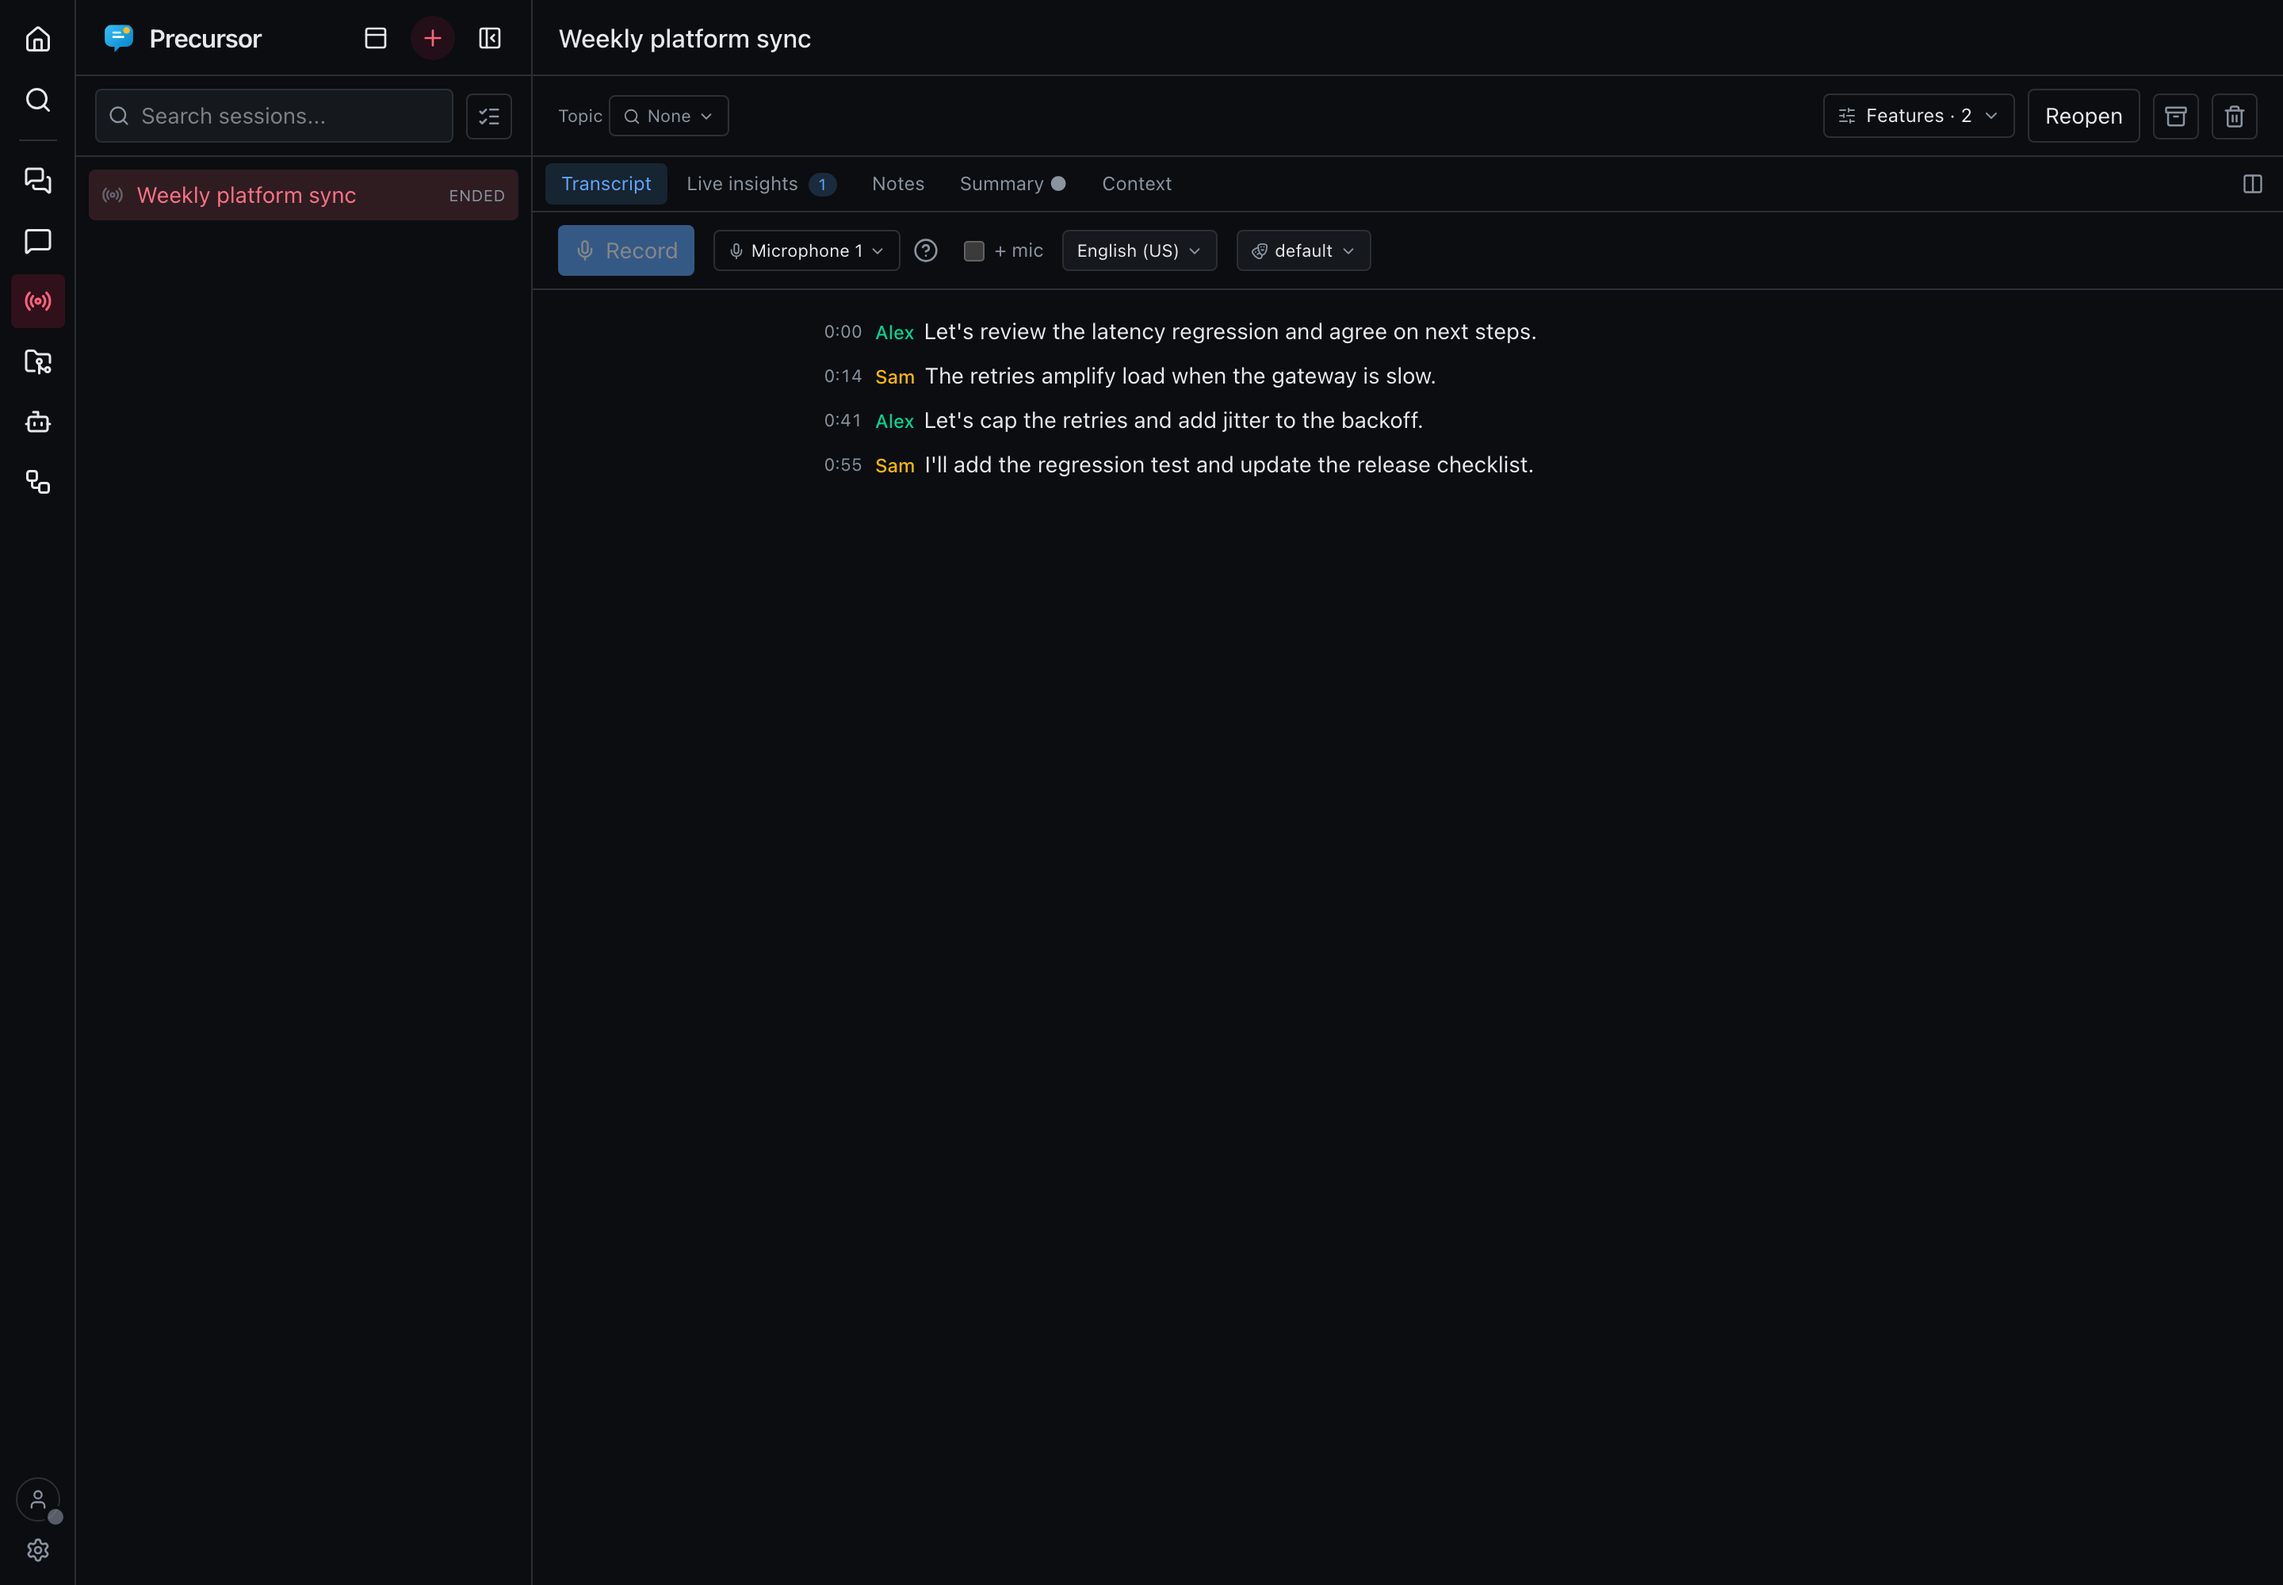
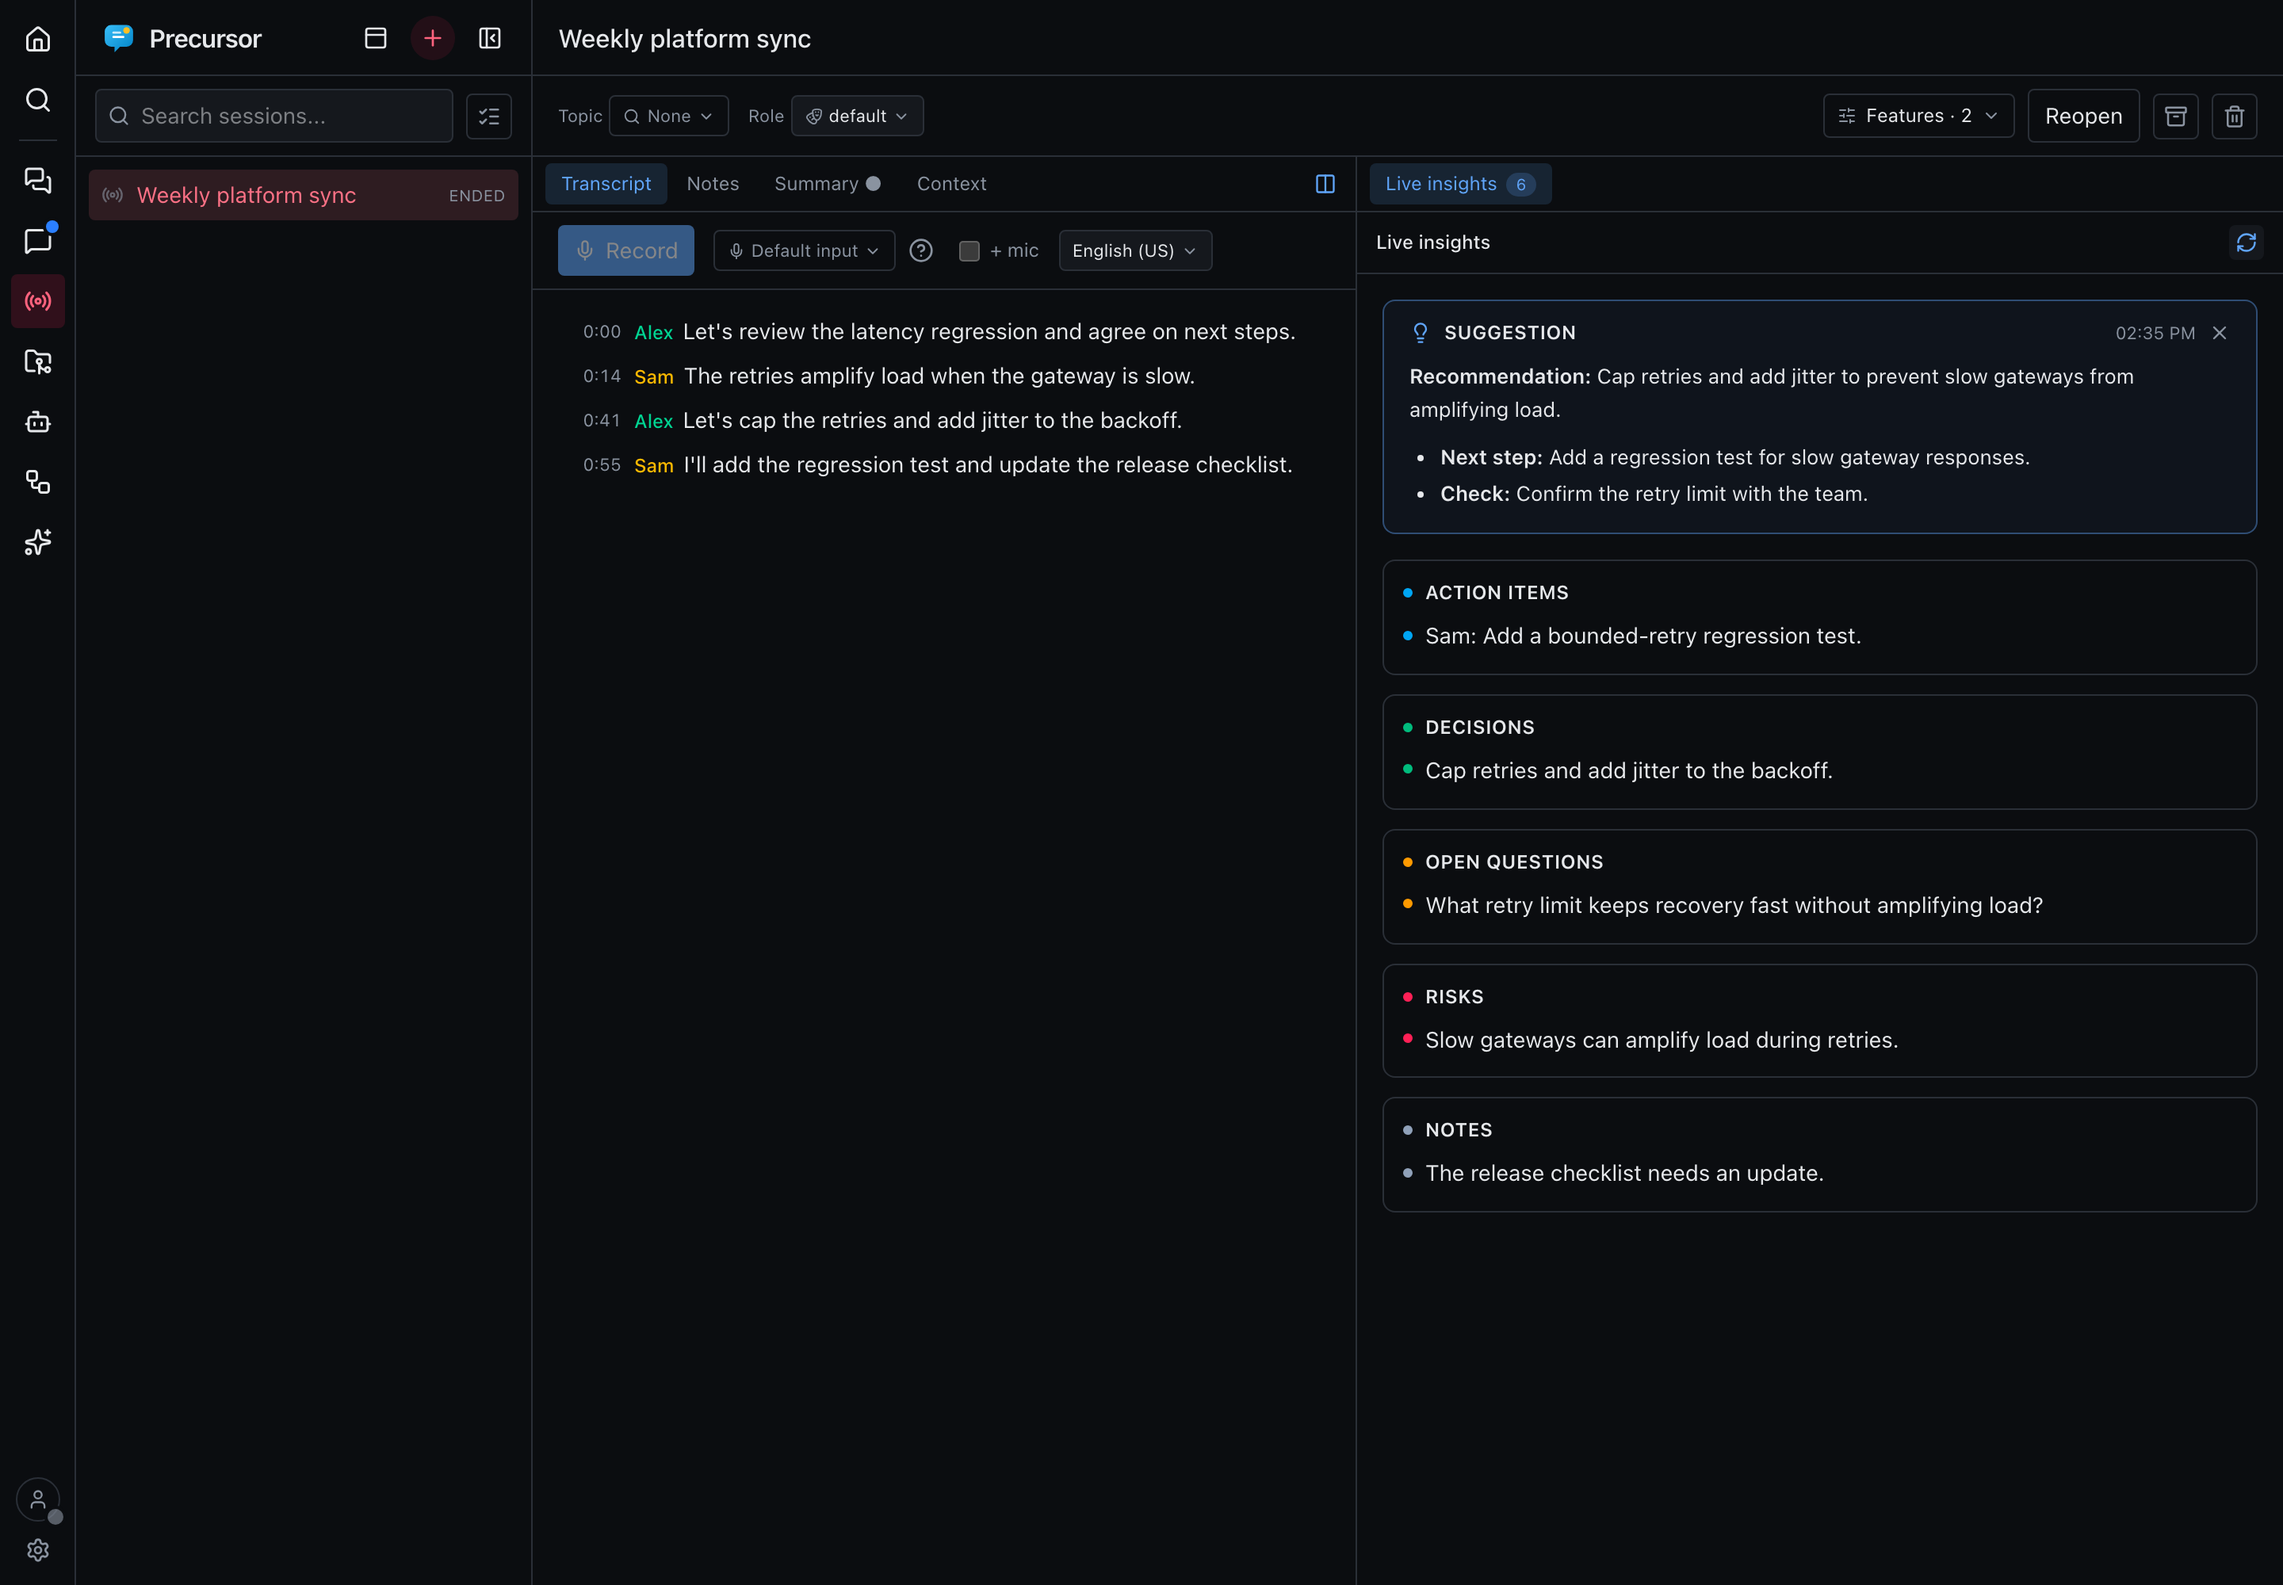
Improve live insights readability
Copilot-Session: b76e12f0-c15c-464a-84b6-b99a6c88594e

diff --git a/frontend/src/components/LiveView.tsx b/frontend/src/components/LiveView.tsx
@@ -1350,17 +1350,17 @@ export function LiveView({
           <RefreshCw size={14} className={analyzing ? "animate-spin" : ""} />
         </button>
       </div>
-      <div className="flex-1 overflow-y-auto px-3 py-3">
+      <div className="flex-1 overflow-y-auto px-4 py-4">
         {/* Proactive help rides along on the analysis pass: shown as cards when
             the assistant judges it can materially help right now. */}
         {suggestion && (
-          <div className="mb-3 rounded border border-accent/40 bg-accent/5 px-3 py-2">
-            <div className="mb-1 flex items-center gap-1.5">
-              <Lightbulb size={12} className="text-accent" />
-              <span className="text-[11px] font-medium uppercase tracking-wide text-muted">
+          <div className="mb-4 rounded-lg border border-accent/40 bg-accent/5 px-4 py-3">
+            <div className="mb-2 flex items-center gap-2">
+              <Lightbulb size={14} className="text-accent" />
+              <span className="text-xs font-semibold uppercase tracking-wide text-text">
                 Suggestion
               </span>
-              <span className="ml-auto text-[10px] text-muted">
+              <span className="ml-auto text-[11px] text-muted">
                 {new Date(suggestion.at).toLocaleTimeString(undefined, {
                   hour: "2-digit",
                   minute: "2-digit",
@@ -1372,10 +1372,10 @@ export function LiveView({
                 aria-label="Dismiss"
                 className="text-muted hover:text-red-500"
               >
-                <X size={12} />
+                <X size={14} />
               </button>
             </div>
-            <div className="prose prose-sm dark:prose-invert max-w-none text-[13px]">
+            <div className="prose prose-sm dark:prose-invert max-w-none text-[13px] leading-relaxed">
               <Markdown>{suggestion.text}</Markdown>
             </div>
           </div>
@@ -1389,21 +1389,27 @@ export function LiveView({
         ) : (
           <div className="space-y-3">
             {groupedInsights.map((g) => (
-              <div key={g.kind}>
-                <div className="mb-1 flex items-center gap-1.5">
+              <section key={g.kind} className="rounded-lg border border-border bg-bg/60 px-3 py-3">
+                <div className="mb-2 flex items-center gap-2">
                   <span className={`h-1.5 w-1.5 rounded-full ${g.dot}`} />
-                  <span className="text-[11px] font-medium uppercase tracking-wide text-muted">
+                  <h3 className="text-xs font-semibold uppercase tracking-wide text-text">
                     {g.label}
-                  </span>
+                  </h3>
                 </div>
-                <ul className="space-y-1">
+                <ul className="space-y-2">
                   {g.items.map((it) => (
-                    <li key={it.id} className="text-[13px] leading-snug text-text">
-                      <HighlightedText text={it.content} />
+                    <li key={it.id} className="flex items-start gap-2 text-sm leading-relaxed text-text">
+                      <span
+                        className={`mt-[0.45rem] h-1.5 w-1.5 shrink-0 rounded-full ${g.dot}`}
+                        aria-hidden="true"
+                      />
+                      <span className="min-w-0">
+                        <HighlightedText text={it.content} />
+                      </span>
                     </li>
                   ))}
                 </ul>
-              </div>
+              </section>
             ))}
           </div>
         )}

diff --git a/scripts/capture_screenshots.js b/scripts/capture_screenshots.js
@@ -404,8 +404,30 @@ const scenes = {
   live: {
     viewport: { width: 1440, height: 1000 },
     async go(page) {
+      await page.addInitScript(() => {
+        localStorage.setItem("precursor:live-panel", JSON.stringify({
+          panes: [
+            { tabs: ["transcript"], active: "transcript" },
+            { tabs: ["insights"], active: "insights" },
+          ],
+        }));
+      });
+      await page.route("**/api/live/*/analyze", (route) => route.fulfill({
+        json: {
+          insights: [
+            { id: 1, kind: "action_item", content: "Sam: Add a bounded-retry regression test." },
+            { id: 2, kind: "decision", content: "Cap retries and add jitter to the backoff." },
+            { id: 3, kind: "question", content: "What retry limit keeps recovery fast without amplifying load?" },
+            { id: 4, kind: "risk", content: "Slow gateways can amplify load during retries." },
+            { id: 5, kind: "note", content: "The release checklist needs an update." },
+          ],
+          suggestion: "**Recommendation:** Cap retries and add jitter to prevent slow gateways from amplifying load.\n\n- **Next step:** Add a regression test for slow gateway responses.\n- **Check:** Confirm the retry limit with the team.",
+        },
+      }));
       await page.goto(`${BASE}/live/weekly-platform-sync`, { waitUntil: "networkidle" });
       await page.getByText("Let's review the latency regression and agree on next steps.", { exact: true }).waitFor();
+      await page.getByRole("button", { name: "Analyze now" }).click();
+      await page.getByText("Recommendation", { exact: false }).waitFor();
       return undefined;
     },
   },

diff --git a/precursor/backend/services/meeting_analysis.py b/precursor/backend/services/meeting_analysis.py
@@ -116,8 +116,13 @@ _SYSTEM_PROMPT = (
     "If nothing substantive has been said yet, return an empty insights list.\n\n"
     "For help/suggestion: ONLY set help=true when there is a clear, current open "
     "question or problem you can materially help with — give a specific, brief "
-    "answer or next step in 'suggestion'. Most of the time nothing is needed: set "
-    "help=false with an empty suggestion. Do not repeat the insights as a suggestion."
+    "answer or next step in 'suggestion'. Make it easy to scan during a live "
+    "discussion: start with one direct recommendation or answer in a short sentence. "
+    "When useful, follow with up to 3 short Markdown bullets for options or next "
+    "steps, using bold labels sparingly. Keep it to about 3 short lines; avoid "
+    "numbered run-on paragraphs, long caveats, and repeating the insights. Most of "
+    "the time nothing is needed: set help=false with an empty suggestion. Do not "
+    "repeat the insights as a suggestion."
 )
 
 

diff --git a/tests/test_live_sessions.py b/tests/test_live_sessions.py
@@ -1431,6 +1431,14 @@ def test_parse_insights_help_and_suggestion() -> None:
     assert _parse_insights("nothing here") == ([], False, "")
 
 
+def test_live_analysis_prompt_requests_scannable_suggestions() -> None:
+    from precursor.backend.services.meeting_analysis import _SYSTEM_PROMPT
+
+    assert "start with one direct recommendation or answer" in _SYSTEM_PROMPT
+    assert "up to 3 short Markdown bullets" in _SYSTEM_PROMPT
+    assert "avoid numbered run-on paragraphs" in _SYSTEM_PROMPT
+
+
 def test_mark_speaker_me_roundtrip() -> None:
     app = create_app()
     with TestClient(app) as client:

diff --git a/website/features/live-sessions.md b/website/features/live-sessions.md
@@ -9,7 +9,7 @@ labels, and surfaces live insights, Q&A, and an editable summary you can attach
 to a [topic](/features/topics). Audio is transcribed in the browser via **Azure
 Speech** and **never stored** — only the transcript and derived insights are kept.
 
-<Screenshot src="/screenshots/live.png" alt="A live session with a speaker-labeled transcript on the left and live insights on the right" caption="A live session — speaker-labeled transcript alongside live insights (action items, decisions, open questions)." />
+<Screenshot src="/screenshots/live.png" alt="A live session with a speaker-labeled transcript on the left and grouped live insights plus a structured suggestion on the right" caption="Live insights beside the transcript: a concise recommendation, grouped follow-ups, decisions, questions and risks." />
 
 ## Prerequisites
 
@@ -74,8 +74,10 @@ role afterwards to override it. Detaching a topic leaves the role as it is.
 - **Live Insights** — while recording, the assistant re-derives a snapshot of
   **action items, decisions, open questions, suggestions, and risks** from the
   rolling transcript. Each analysis **replaces** the previous snapshot, and a
-  proactive suggestion shows as a single card that a newer one replaces — nothing
-  stacks up while the meeting runs.
+  proactive suggestion shows in a highlighted card that a newer one replaces —
+  nothing stacks up while the meeting runs. Insight categories are separated
+  into scan-friendly groups, and suggestions lead with a concise recommendation
+  followed by short bullets when alternatives or next steps help.
 - **Ask assistant** — ask free-form questions; answers stream from the transcript
   plus the attached topic.
 - **Suggested answers** — turn on **Suggested answers** in the feature picker and

diff --git a/CHANGELOG.md b/CHANGELOG.md
@@ -15,6 +15,11 @@ are the per-version history; releasing does not rewrite this file.
 
 ### Added
 
+- **Live insights are easier to scan.** Insight categories now have clearer
+  visual grouping, and proactive suggestions lead with a short recommendation
+  followed by concise bullets for alternatives or next steps when useful. See
+  [Live sessions](website/features/live-sessions.md).
+
 - **Live sessions inherit the topic's role.** Attaching a topic to a live
   session now copies its assistant role into the session, and the role picker
   moved from the Transcript tab to the session header because it applies to the
